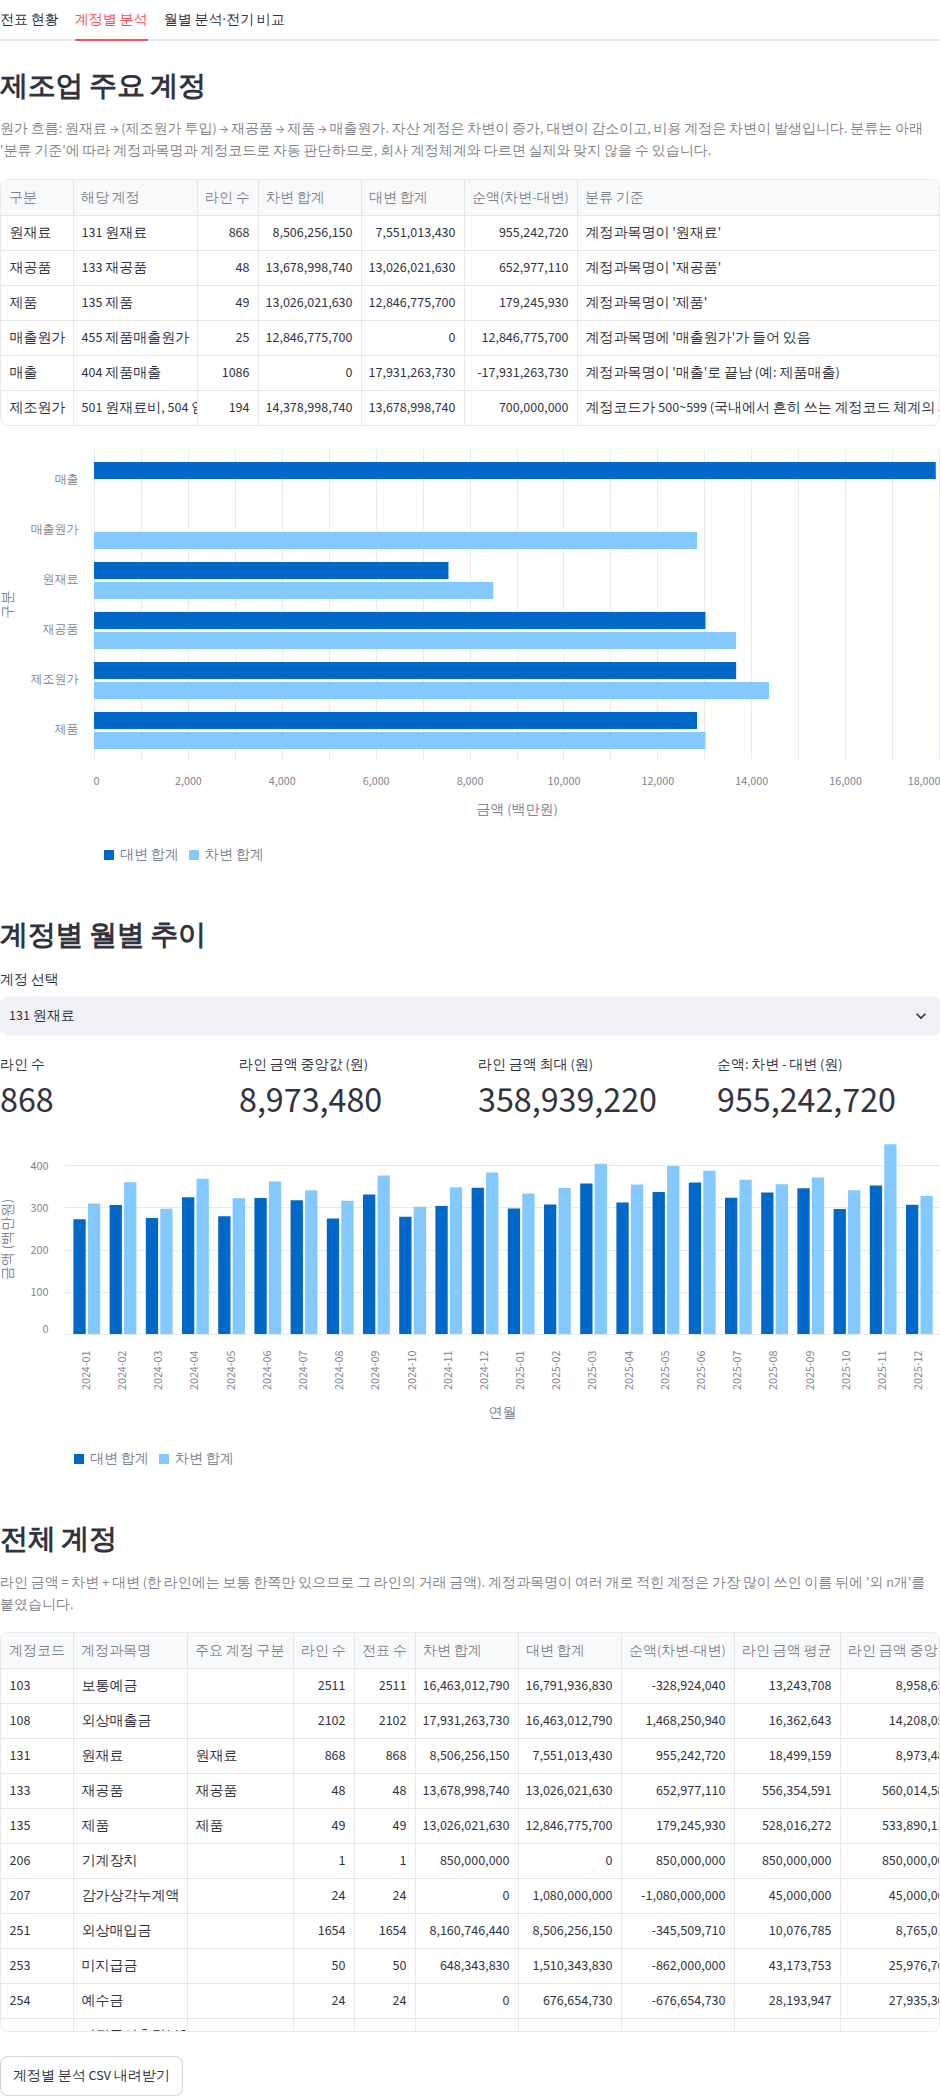
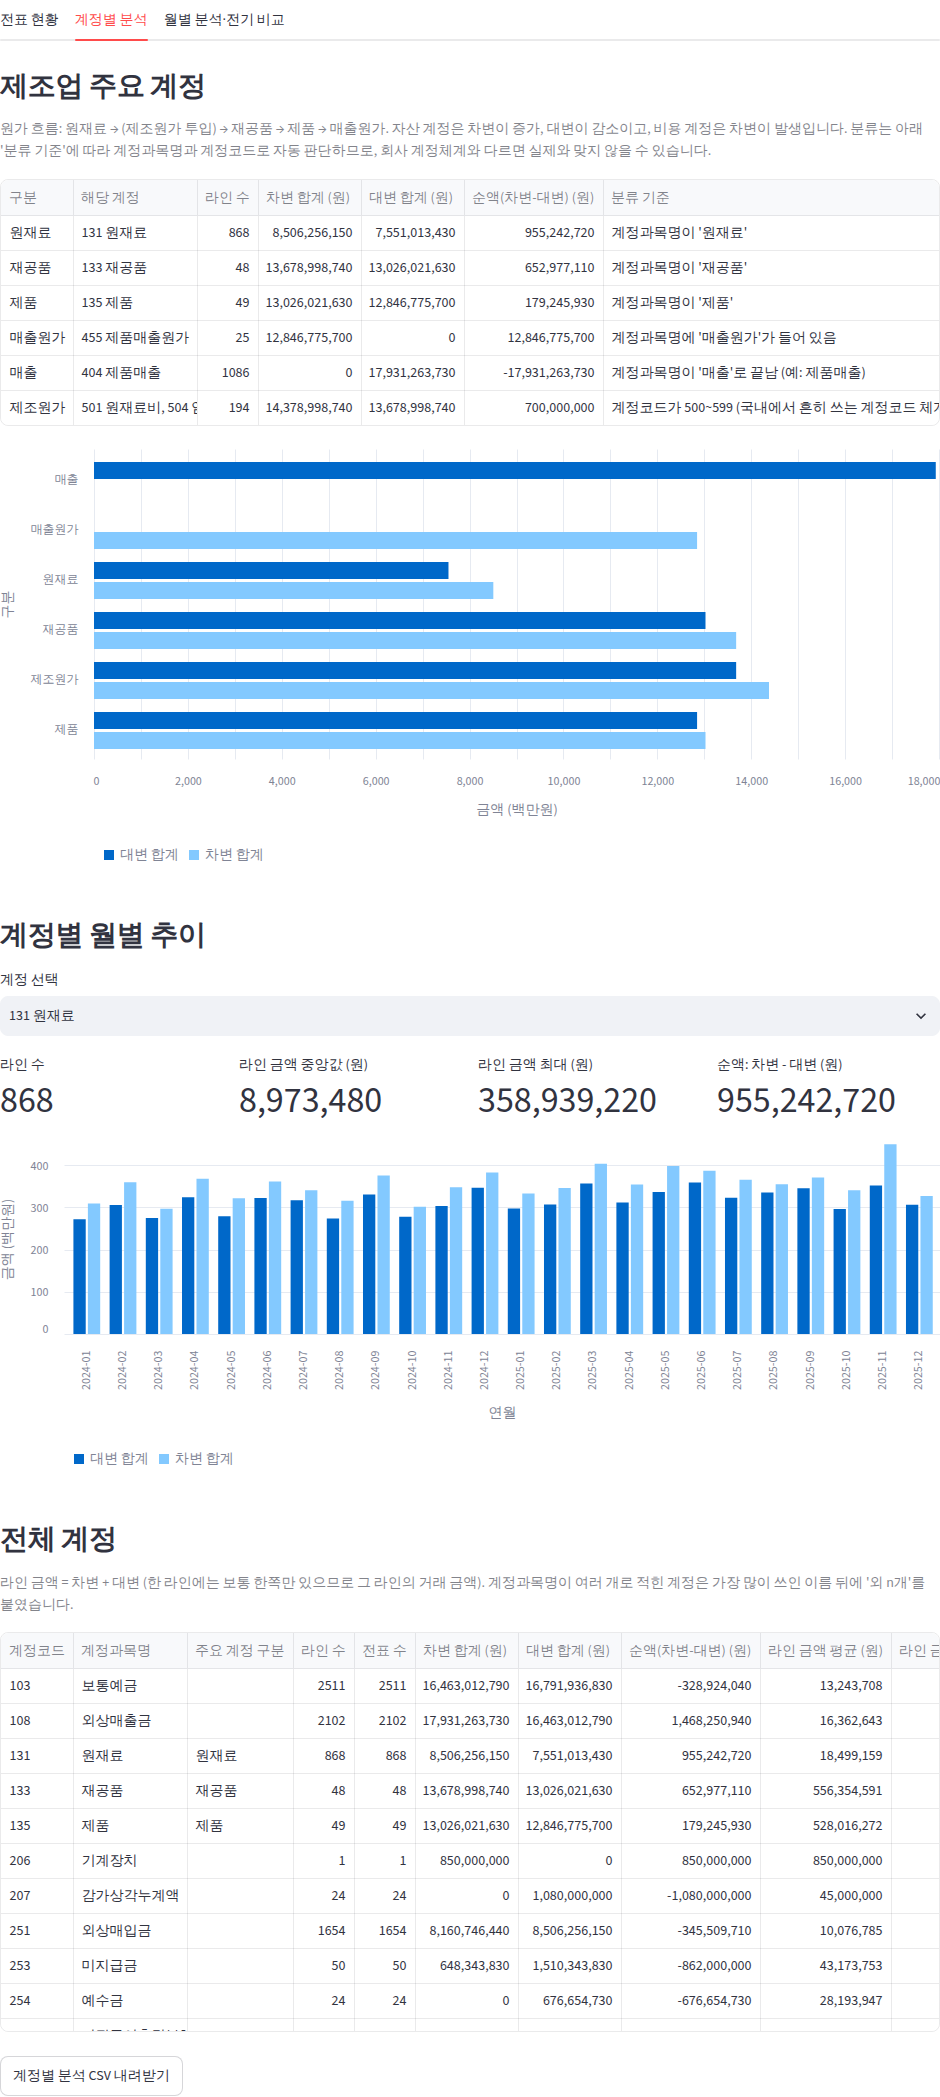
feat: 분석표 금액 열에 단위 표시, 원본 분개장 대사 테스트 추가
- app.py: 금액 열 이름에 '(원)', 전기·당기 비교표에 연도와 단위(원/건) 표시, 계정별 CSV에도 단위 표시
- tests: 원본 CSV를 직접 집계해 계정별·같은 달 비교·건수를 대사하는 테스트, 단위 표시 화면 테스트
- docs/images: 바뀐 표 머리글로 화면 캡처 갱신

Claude-Session: https://claude.ai/code/session_01DbvhCLCeHEFVYbBNJ4URzf

Changed region(s): [[0.6787, 0.7749, 1.0, 0.9609], [0.5245, 0.093, 1.0, 0.217]]

diff --git a/tests/test_analysis.py b/tests/test_analysis.py
@@ -323,3 +323,55 @@ def test_전기_자료가_전혀_없는_연도와_비교():
     assert pd.isna(table.loc["1월", "증감률(%)"])
     assert table.loc["1월", "비고"] == "전기 자료 없음"
     assert table.loc["합계", "비고"] == ""
+
+
+# ---------------------------------------------------------------- 원본 분개장과 대사 (PR 2 검토)
+def test_샘플_분개장_원본과_계정별_월별_건수_대사():
+    """원본 CSV를 csv 모듈로 직접 더한 값과, 앱과 같은 경로(읽기→검증→분석)의 결과를 비교합니다."""
+    import csv
+    import io
+    from collections import defaultdict
+
+    from auditlens.loader import read_uploaded_file
+    from auditlens.sample_data import generate_sample_journal, journal_to_csv_bytes
+    from auditlens.schema import suggest_mapping
+
+    data = journal_to_csv_bytes(generate_sample_journal()[0])
+    rows = list(csv.DictReader(io.StringIO(data.decode("utf-8-sig"))))
+    by_account = defaultdict(lambda: [0, 0, 0])  # 라인 수, 차변, 대변 (원 단위 정수)
+    by_month = defaultdict(lambda: [0, 0])  # 라인 수, 차변
+    for r in rows:
+        dr, cr = int(r["차변금액"] or 0), int(r["대변금액"] or 0)
+        a = by_account[r["계정코드"]]
+        a[0] += 1
+        a[1] += dr
+        a[2] += cr
+        m = by_month[(int(r["회계처리일"][:4]), int(r["회계처리일"][5:7]))]
+        m[0] += 1
+        m[1] += dr
+
+    raw, _ = read_uploaded_file("sample.csv", data)
+    result = validate_journal(raw, suggest_mapping(raw.columns))
+    df, notes = A.prepare(result.clean)
+    assert notes == [] and result.excluded_rows == []
+
+    # 4. 건수: 라인 수·전표 수가 원본과 같음
+    ov = A.overview(df)
+    assert ov["라인 수"] == len(rows)
+    assert ov["전표 수"] == len({r["전표번호"] for r in rows})
+
+    # 1. 계정별 라인 수·차변·대변 합계가 원본과 같음
+    table = A.account_summary(df).set_index("계정코드")
+    assert set(table.index) == set(by_account)
+    for code, (n, dr, cr) in by_account.items():
+        assert table.loc[code, "라인 수"] == n
+        assert table.loc[code, "차변 합계"] == dr and table.loc[code, "대변 합계"] == cr
+
+    # 2. 전기·당기 같은 달 비교가 원본의 해당 연월 값과 같음
+    lines = A.compare_years(df, 2024, 2025, "라인 수").set_index("월")
+    debit = A.compare_years(df, 2024, 2025, "차변 합계").set_index("월")
+    for month in range(1, 13):
+        assert lines.loc[f"{month}월", "전기"] == by_month[(2024, month)][0]
+        assert lines.loc[f"{month}월", "당기"] == by_month[(2025, month)][0]
+        assert debit.loc[f"{month}월", "전기"] == by_month[(2024, month)][1]
+        assert debit.loc[f"{month}월", "당기"] == by_month[(2025, month)][1]

diff --git a/app.py b/app.py
@@ -215,9 +215,14 @@ if len(df) == 0:
     st.stop()
 
 
+def with_won(table, columns):
+    """금액 열 이름 뒤에 단위 '(원)'을 붙입니다(값은 바꾸지 않음)."""
+    return table.rename(columns={c: f"{c} (원)" for c in columns})
+
+
 def money(table, columns):
-    """금액 열에 천 단위 쉼표를 붙여 보여 줍니다(값 자체는 바꾸지 않음)."""
-    return table.style.format("{:,.0f}", subset=columns, na_rep="")
+    """금액 열 이름에 '(원)'을 붙이고 천 단위 쉼표로 보여 줍니다(값 자체는 바꾸지 않음)."""
+    return with_won(table, columns).style.format("{:,.0f}", subset=[f"{c} (원)" for c in columns], na_rep="")
 
 
 def to_chart_unit(table, columns):
@@ -294,7 +299,8 @@ with tab_account:
     money_cols = ["차변 합계", "대변 합계", "순액(차변-대변)", "라인 금액 평균", "라인 금액 중앙값",
                   "라인 금액 최소", "라인 금액 최대"]
     st.dataframe(money(accounts, money_cols), hide_index=True, use_container_width=True)
-    st.download_button("계정별 분석 CSV 내려받기", accounts.to_csv(index=False).encode("utf-8-sig"),
+    st.download_button("계정별 분석 CSV 내려받기",
+                       with_won(accounts, money_cols).to_csv(index=False).encode("utf-8-sig"),
                        "계정별분석.csv", "text/csv")
 
 with tab_month:
@@ -337,8 +343,10 @@ with tab_month:
             chart = chart / CHART_UNIT
         st.bar_chart(chart, stack=False, x_label="월",
                      y_label=f"{measure} ({CHART_UNIT_LABEL if is_amount else '건'})")
-        fmt = "{:,.0f}"
-        st.dataframe(table.style.format(fmt, subset=["전기", "당기", "증감"])
+        unit = "원" if is_amount else "건"
+        shown = table.rename(columns={"전기": f"전기 {prior}년 ({unit})", "당기": f"당기 {current}년 ({unit})",
+                                      "증감": f"증감 ({unit})"})
+        st.dataframe(shown.style.format("{:,.0f}", subset=list(shown.columns[1:4]))
                      .format("{:,.1f}", subset=["증감률(%)"], na_rep=""),
                      hide_index=True, use_container_width=True)
         st.caption("같은 달끼리 비교합니다. 증감 = 당기 - 전기, 증감률 = 증감 ÷ 전기 × 100. 전기 값이 0이면 증감률은 "

diff --git a/tests/test_app.py b/tests/test_app.py
@@ -56,3 +56,13 @@ def test_검증_오류가_있으면_분석_대신_안내():
     assert not at.exception
     assert any("기초 분석이 표시됩니다" in i.value for i in at.info)
     assert not at.tabs
+
+
+def test_분석표_금액_열에_단위_표시():
+    at = AppTest.from_file(APP, default_timeout=120).run()
+    headers = [list(d.value.columns) for d in at.dataframe]
+    assert any("차변 합계 (원)" in h for h in headers)
+    assert any("전기 2024년 (원)" in h and "증감 (원)" in h for h in headers)
+    at.selectbox(key="analysis_measure").select("전표 수").run()
+    headers = [list(d.value.columns) for d in at.dataframe]
+    assert any("전기 2024년 (건)" in h for h in headers)
